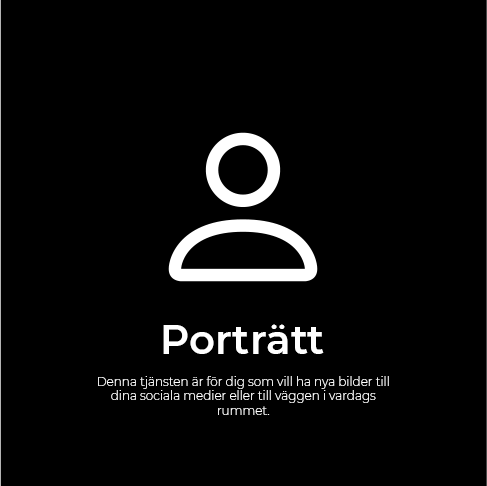
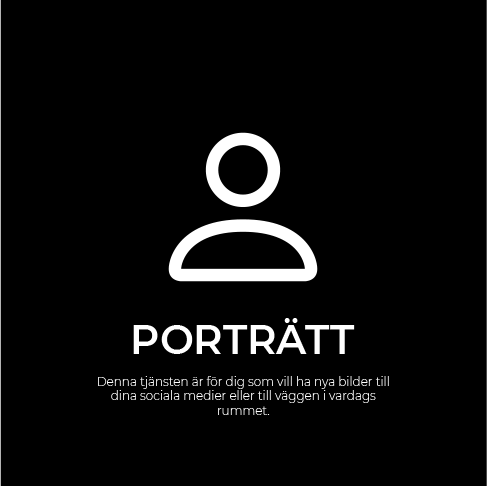
yeee

Changed region(s): [[0.2464, 0.6481, 0.7392, 0.7407], [0.2156, 0.7716, 0.6468, 0.8642], [0.6468, 0.7716, 0.8008, 0.8333]]

diff --git a/tjänster.html b/tjänster.html
@@ -38,6 +38,18 @@
   </header>
 
   <body>
+    <div class="square">
+      <h1 id="headertext">PORTRÄTT</h1>
+      <h1 id="paket">Paket 1: <span> 499kr</span></h1>
+      <h1 id="subpaket">3 Digitala Bilder</h1>
+      <h1 id="paket">Paket 2: <span> 799kr</span></h1>
+      <h1 id="subpaket">5 Digitala Bilder</h1>
+      <h1 id="paket">Paket 3: <span>1099kr</span></h1>
+      <h1 id="subpaket">7 Digitala Bilder</h1>
+      <h1 id="merpaket">
+        Vill du lägga till bilder på ditt paket? Det kostar 200kr/bild.
+      </h1>
+    </div>
     <div class="img-container">
       <a href="#"><img src="img/website/porträtt.png" alt="" /></a>
       <a href="#"><img src="img/website/bröllop.png" alt="" /></a>
@@ -45,5 +57,6 @@
     </div>
 
     <script src="js/script.js"></script>
+    <script src="js/tjänster.js"></script>
   </body>
 </html>

diff --git a/css/secondstyle.css b/css/secondstyle.css
@@ -22,6 +22,52 @@ body {
   font-size: 1.1rem;
 }
 
+.square {
+  background-color: black;
+  width: 500px;
+  height: 750px;
+  display: block;
+  margin-left: auto;
+  margin-right: auto;
+  margin-top: 6rem;
+  display: none;
+}
+
+#merpaket {
+  text-align: center;
+  position: relative;
+  top: 40px;
+  margin-top: 5rem;
+  font-weight: 600;
+  font-size: 1rem;
+}
+
+#headertext {
+  text-align: center;
+  position: relative;
+  top: 40px;
+  font-size: 3rem;
+}
+#paket {
+  text-align: center;
+  position: relative;
+  top: 40px;
+  font-weight: 300;
+  font-size: 3rem;
+  padding: 2rem 0rem;
+}
+
+span {
+  font-weight: 600;
+}
+
+#subpaket {
+  text-align: center;
+  position: relative;
+  font-weight: 300;
+  font-size: 2rem;
+}
+
 .img-container {
   display: flex;
   flex-direction: row;
